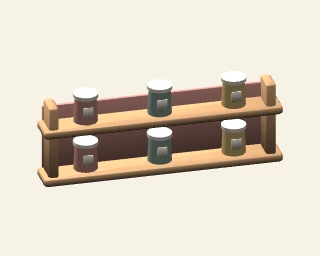
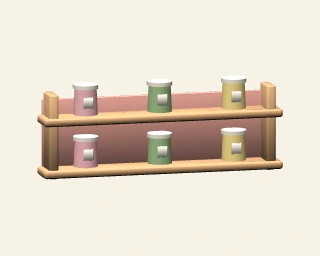
Unify furniture wood, porcelain and tea details (preview.11)

Changed region(s): [[0.0938, 0.2812, 0.9062, 0.75]]

diff --git a/src/shop/edition-art.ts b/src/shop/edition-art.ts
@@ -1,3 +1,4 @@
+import { ITEMS } from '../game/items';
 import { buildEditionExtra, editionExtraIds } from './edition-extras';
 import { buildEditionSpecial, editionSpecialIds } from './edition-specials';
 import { StandardMaterial } from '@babylonjs/core/Materials/standardMaterial';
@@ -11,7 +12,7 @@ import type { Scene } from '@babylonjs/core/scene';
 import type { ShopState, UpgradeId } from '../game/types';
 import { floorCenter, wallCenter } from './grid';
 import { UPGRADE_BY_ID, placeOf, isPlaced } from './upgrades';
-import { editionFabricTexture, editionSignTexture, editionOakTexture } from './textures';
+import { editionFabricTexture, editionSignTexture, editionOakTexture, editionJoineryTexture } from './textures';
 
 const E={cream:'#f6eedf',oak:'#c79b70',dark:'#725340',sage:'#8da496',rose:'#c78d82',brass:'#b69862',leaf:'#69896b',leafDeep:'#46664e',ink:'#414f49'};
 export const editionCoreIds: UpgradeId[]=['counter','sign','paint','shelves','plant','rug','lamp','table'];
@@ -36,13 +37,20 @@ function soft(s:Scene,n:string,p:TransformNode,m:StandardMaterial,w:number,h:num
  const normals:number[]=[];VertexData.ComputeNormals(positions,indices,normals);const v=new VertexData();Object.assign(v,{positions,indices,normals,uvs});v.applyToMesh(mesh);return attach(mesh,p,m,x,y,z);
 }
 function cup(s:Scene,p:TransformNode,body:StandardMaterial,tea:StandardMaterial,x:number,y:number,z:number){
- cylinder(s,'saucer',p,body,.025,.135,x,y,z);cylinder(s,'ceramic-cup',p,body,.15,.075,x,y+.085,z,.095);cylinder(s,'tea',p,tea,.009,.073,x,y+.165,z);
+ cylinder(s,'saucer',p,body,.025,.135,x,y,z);cylinder(s,'ceramic-cup',p,body,.15,.075,x,y+.085,z,.095);cylinder(s,'tea',p,tea,.009,.073,x,y+.165,z);ring(s,'porcelain-lip',p,body,.18,.014,x,y+.165,z);
  const h=ring(s,'cup-handle',p,body,.11,.025,x+.105,y+.1,z);h.rotation.x=Math.PI/2;
 }
 function pot(s:Scene,p:TransformNode,body:StandardMaterial,accent:StandardMaterial,x:number,y:number,z:number){
  orb(s,'teapot-belly',p,body,.16,x,y+.15,z,1.15,.95,1);cylinder(s,'teapot-lid',p,accent,.035,.115,x,y+.29,z);orb(s,'teapot-knob',p,accent,.035,x,y+.33,z);
  const sp=cylinder(s,'teapot-spout',p,body,.23,.035,x+.19,y+.2,z,.055);sp.rotation.z=-.8;
  const h=ring(s,'teapot-handle',p,accent,.24,.035,x-.18,y+.17,z);h.rotation.x=Math.PI/2;
+}
+function teaPacket(scene:Scene,p:TransformNode,paper:StandardMaterial,ink:StandardMaterial,x:number,y:number,z:number){
+ const packet=new TransformNode('folded-tea-packet',scene);packet.parent=p;packet.position.set(x,y,z);packet.rotation.y=-.18;
+ soft(scene,'tea-paper',packet,paper,.23,.035,.17,.025);
+ soft(scene,'packet-label',packet,ink,.12,.006,.09,.012,0,.021,0);
+ for(const xx of [-.09,.09])soft(scene,'packet-seam',packet,paper,.012,.008,.145,.004,xx,.023,0);
+ soft(scene,'packet-fold',packet,paper,.19,.009,.025,.008,0,.025,-.063);
 }
 function steam(s:Scene,p:TransformNode,x:number,y:number,z:number){const m=mat(s,'steam','#fff8e9');m.alpha=.26;m.emissiveColor=Color3.FromHexString('#fff1d6').scale(.18);for(let i=0;i<3;i++){const a=orb(s,'tea-steam',p,m,.045,x,y,z,1,1.4,1);a.isPickable=false;a.receiveShadows=false;a.metadata={steam:{x,y,phase:i/3}};}}
 function tag(root:TransformNode,id:UpgradeId){root.metadata={upgradeId:id};for(const m of root.getChildMeshes())m.metadata={...m.metadata,upgradeId:id};}
@@ -56,13 +64,16 @@ export function buildEditionItem(scene:Scene,id:UpgradeId,shop:ShopState,style:n
  if(editionSpecialIds.includes(id)) return buildEditionSpecial(scene,id,shop,style,{E,mat,attach,orb,cylinder,ring,soft,cup,pot,place,tag});
  if(editionExtraIds.includes(id)) return buildEditionExtra(scene,id,shop,style,{E,mat,attach,orb,cylinder,ring,soft,cup,pot,place,tag});
  const root=new TransformNode(id,scene);const wood=mat(scene,'oak',E.oak),cream=mat(scene,'porcelain',E.cream,.25),dark=mat(scene,'walnut',E.dark),brass=mat(scene,'brass',E.brass,.3),accent=mat(scene,'accent',[E.sage,E.cream,E.rose][style]);
+ cream.specularColor.setAll(.16);cream.specularPower=40;wood.specularColor.setAll(.045);wood.specularPower=12;
+ if(['counter','table','shelves'].includes(id))wood.diffuseTexture=editionJoineryTexture(scene);
  if(id==='counter'){
   const body=style===0?wood:accent;soft(scene,'counter-cabinet',root,body,2.88,1.02,.89,.13,0,.56,0);
   soft(scene,'counter-plinth',root,dark,2.74,.12,.78,.1,0,.09,0);soft(scene,'rounded-countertop',root,style===0?dark:cream,3,.13,1,.17,0,1.12,0);
   for(const x of [-.94,0,.94]){soft(scene,'cabinet-panel',root,cream,.8,.68,.035,.05,x,.57,.454);soft(scene,'panel-inset',root,body,.69,.56,.045,.05,x,.57,.475);orb(scene,'cabinet-handle',root,brass,.027,x+.22,.72,.507);}
   soft(scene,'serving-tray',root,dark,1.05,.035,.54,.15,-.7,1.2,.02);pot(scene,root,accent,cream,-.83,1.22,.02);cup(scene,root,cream,dark,-.36,1.22,.08);steam(scene,root,-.83,1.64,.02);
-  for(let i=0;i<3;i++){const x=.28+i*.28;cylinder(scene,'tea-canister',root,i===1?accent:cream,.26,.105,x,1.33,-.15);cylinder(scene,'canister-lid',root,wood,.035,.115,x,1.48,-.15);soft(scene,'tin-label',root,dark,.1,.09,.01,.003,x,1.34,-.038);}
+  for(let i=0;i<3;i++){const x=.28+i*.28;cylinder(scene,'tea-canister',root,i===1?accent:cream,.26,.105,x,1.33,-.15);cylinder(scene,'canister-lid',root,wood,.035,.115,x,1.48,-.15);soft(scene,'tin-label',root,cream,.12,.11,.014,.012,x,1.34,-.038);}
   soft(scene,'folded-cloth',root,accent,.38,.03,.35,.06,.92,1.205,.22);
+  const teaPaper=mat(scene,'tea-paper',ITEMS.jasmine.fill),teaInk=mat(scene,'tea-ink',ITEMS.jasmine.ink);teaPacket(scene,root,teaPaper,teaInk,.93,1.235,.22);
  }else if(id==='sign'){
   soft(scene,'rounded-sign',root,style===1?brass:wood,1.9,.78,.12,.15);const face=MeshBuilder.CreatePlane('sign-lettering',{width:1.7,height:.61},scene);attach(face,root,mat(scene,'sign-face','#ffffff'),0,0,.066);face.rotation.y=Math.PI;(face.material as StandardMaterial).diffuseTexture=editionSignTexture(scene,style);
   for(const x of [-.64,.64])cylinder(scene,'sign-hook',root,brass,.14,.025,x,.45,0);
@@ -70,7 +81,7 @@ export function buildEditionItem(scene:Scene,id:UpgradeId,shop:ShopState,style:n
   soft(scene,'shelf-back',root,style===2?accent:cream,2.78,.93,.05,.09,0,.08,.04);
   for(const y of [-.3,.32])soft(scene,'shelf-board',root,style===1?cream:wood,2.9,.09,.4,.045,0,y,.22);
   for(const x of [-1.32,1.32])soft(scene,'shelf-side',root,wood,.12,1,.32,.04,x,.14,.2);
-  const colors=[E.sage,E.rose,'#d8ba79'];for(let i=0;i<6;i++){const x=-.9+(i%3)*.9,y=i<3?.37:-.25;const jar=mat(scene,'shelf-glaze'+i,colors[(i+style)%3],.3);cylinder(scene,'tea-jar',root,jar,.31,.145,x,y+.16,.2,.13);cylinder(scene,'tea-jar-lid',root,cream,.045,.15,x,y+.34,.2);soft(scene,'jar-label',root,cream,.12,.13,.015,.005,x,y+.16,.335);}
+  const colors=[ITEMS.matcha.fill,ITEMS.rose.fill,ITEMS.jasmine.fill];for(let i=0;i<6;i++){const x=-.9+(i%3)*.9,y=i<3?.37:-.25;const jar=mat(scene,'shelf-glaze'+i,colors[(i+style)%3],.3);cylinder(scene,'tea-jar',root,jar,.31,.145,x,y+.16,.2,.13);cylinder(scene,'tea-jar-lid',root,cream,.045,.15,x,y+.34,.2);soft(scene,'jar-label',root,cream,.12,.13,.015,.005,x,y+.16,.335);}
  }else if(id==='plant'){
   cylinder(scene,'ceramic-planter',root,accent,.34,.22,0,.19,0,.28);ring(scene,'pot-rim',root,cream,.55,.035,0,.36,0);cylinder(scene,'soil',root,dark,.015,.24,0,.37,0);
   const leaf=mat(scene,'leaf',E.leaf),deep=mat(scene,'leaf-shadow',E.leafDeep);
@@ -93,6 +104,7 @@ export function buildEditionItem(scene:Scene,id:UpgradeId,shop:ShopState,style:n
   cylinder(scene,'table-pedestal',root,dark,.58,.085,0,.34,0);soft(scene,'table-foot',root,dark,.7,.07,.7,.2,0,.055,0);
   for(const x of [-.77,.77]){const chairRoot=new TransformNode('dining-chair',scene);chairRoot.parent=root;chairRoot.position.set(x,0,0);soft(scene,'seat-frame',chairRoot,dark,.39,.07,.43,.11,0,.37,0);soft(scene,'seat-cushion',chairRoot,accent,.36,.08,.39,.12,0,.43,0);for(const z of [-.15,.15])for(const xx of [-.13,.13])cylinder(scene,'chair-leg',chairRoot,dark,.32,.025,xx,.19,z);if(style!==0){soft(scene,'chair-back',chairRoot,body,.08,.39,.43,.04,x<0?-.17:.17,.61,0);}}
   cup(scene,root,cream,dark,-.28,.72,.1);cup(scene,root,cream,dark,.28,.72,.1);
+  const teaPaper=mat(scene,'tea-paper',ITEMS.matcha.fill),teaInk=mat(scene,'tea-ink',ITEMS.matcha.ink);teaPacket(scene,root,teaPaper,teaInk,.02,.735,.22);
   if(editionReadingNook(shop)){
    soft(scene,'open-book-cover',root,accent,.37,.035,.27,.025,0,.73,-.2);soft(scene,'book-pages',root,cream,.33,.025,.23,.015,0,.76,-.2);
    pot(scene,root,accent,cream,.12,.72,-.18);steam(scene,root,.12,1.14,-.18);root.metadata={readingNook:true};

diff --git a/src/shop/textures.ts b/src/shop/textures.ts
@@ -193,6 +193,20 @@ export function editionOakTexture(scene:Scene):DynamicTexture {
   }
  });
 }
+// Neutral grain multiplies the existing oak tint; no plank seams on furniture.
+export function editionJoineryTexture(scene:Scene):DynamicTexture {
+ return canvasTex(scene,'edition-joinery',128,(ctx,s)=>{
+  ctx.fillStyle='#ffffff';ctx.fillRect(0,0,s,s);
+  ctx.strokeStyle='#795a3e';ctx.lineWidth=.8;ctx.globalAlpha=.10;
+  for(let row=0;row<14;row++){
+   const y=row*10-4;ctx.beginPath();ctx.moveTo(0,y);
+   ctx.bezierCurveTo(36,y+Math.sin(row*2)*4,88,y-3,s,y+2);ctx.stroke();
+  }
+  ctx.globalAlpha=.05;ctx.lineWidth=1;
+  for(let row=0;row<5;row++){ctx.beginPath();ctx.ellipse(28+row*21,14+row*24,18,2,.04,0,Math.PI*2);ctx.stroke();}
+  ctx.globalAlpha=1;
+ });
+}
 export function editionFabricTexture(scene:Scene,style:number):DynamicTexture {
  return canvasTex(scene,'edition-fabric-'+style,256,(ctx,s)=>{
   const base=['#d6b58e','#cbb2a5','#b8c4b0'][style];ctx.fillStyle=base;ctx.fillRect(0,0,s,s);

diff --git a/src/game/version.ts b/src/game/version.ts
@@ -1,1 +1,1 @@
-export const APP_VERSION = "0.3.0-preview.10";
+export const APP_VERSION = "0.3.0-preview.11";

diff --git a/docs/RELEASES.md b/docs/RELEASES.md
@@ -1,5 +1,9 @@
 # Decopu releases
 
+## 0.3.0-preview.11 — wood, porcelain and tea details
+
+Local work: subtle joinery grain on the counter, table and shelves; softer porcelain highlights and cup rims; folded tea packets linking room props to puzzle sachets. Catalogue thumbnails follow the runtime models. UI, keeper pose, ownership, placement and saves are preserved. Required verification and preview build pass. Browser checks cover day/night, four viewport sizes, mixed-style and zoomed captures, preview/cancel/purchase/reload, counter rotations, reduced motion and three scene cycles with textured furniture present. Each disposed scene releases all meshes/materials/textures/lights; rebuilt scenes retain 267 meshes, 74 materials, 8 textures, 51 transforms and 5 lights. Zero runtime exceptions. Physical-phone performance and aesthetic review remain pending. [Before](screenshots/materials/before.webp) · [After](screenshots/materials/after.webp) · [Detail](screenshots/materials/detail.webp) · [Mixed styles](screenshots/materials/mixed.webp). Evidence: `work/materials-check.log`, `work/materials-verify.log`, `work/materials-build.log`; runtime thumbnails regenerated for counter/table/shelves and the trolley/cabinet tea sets. Preview publication pending; main remains 0.2.1.
+
 ## 0.3.0-preview.10 — editor focus and dialog navigation
 
 Local work: maintain usable focus through decoration selection, cancellation, buying, Browse and Store/Place. The shop-completion dialog receives focus, contains keyboard navigation, isolates background controls and returns focus on dismissal. Rules, touch layout and saves remain unchanged. Required verification and final preview build pass. Six compiled-browser check groups cover card/style/cancel/buy/Store/Place/Browse focus, distinct selected-style focus rings, four responsive sizes with day/night, modal Tab/Shift+Tab containment, Escape, both completion actions and Showcase return. The existing six editor flow groups and seven real touch movement cases pass, including immediate lamp/counter dragging, purchases, save preservation and the first-decoration guide. Zero runtime exceptions. Physical iPhone VoiceOver review remains pending. [Dialog](screenshots/editor-access/dialog.webp) · [Focus](screenshots/editor-access/focus.webp) · [Night focus](screenshots/editor-access/night-focus.webp). Baseline focus loss was reproduced against preview.9. Evidence: `work/editor-access-check.log`, `work/editor-access-touch.log`, `work/editor-access-movement.log`, `work/editor-access-build.log`, `work/editor-access-verify.log`. Hosted successfully in [Pages run 42491257279](https://github.com/ElBafo/tea-shop/actions/runs/42491257279) from source `35dc336901bb812834f44f7b7fbf5bf598d5d8b3`, [PR #27](https://github.com/ElBafo/tea-shop/pull/27). Review the regular [preview](https://elbafo.github.io/tea-shop/preview/) and check v0.3.0-preview.10. Main remains 0.2.1.

diff --git a/README.md b/README.md
@@ -6,6 +6,8 @@ A cozy sorting puzzle that earns stars for a small isometric tea shop. Fill jars
 
 **Released: [Decopu 0.2.1](https://elbafo.github.io/tea-shop/).** [PR #17](https://github.com/ElBafo/tea-shop/pull/17) merged as `2df365fd0921835cd2d647c3277d026b682f821b`; [Pages run 42128359597](https://github.com/ElBafo/tea-shop/actions/runs/42128359597) passed. Drag controls, refined puzzle artwork and the visual first-puzzle guide are live. Existing production progress is preserved; there is no new reset or storage namespace.
 
+**Materials preview: 0.3.0-preview.11.** Subtle furniture wood grain, softer porcelain, clear cup rims, and folded tea packets using puzzle colours. Updated counter/table/shelf thumbnails. Required checks and scene-resource regression pass. Preview publication pending; main remains 0.2.1.
+
 **Editor accessibility preview: 0.3.0-preview.10.** Focus follows decoration selection, purchase and arrangement; the completion dialog isolates background controls and supports keyboard dismissal. Required checks, compiled editor flows and real touch-drag checks pass. Hosted successfully in [Pages run 42491257279](https://github.com/ElBafo/tea-shop/actions/runs/42491257279) from source `35dc336901bb812834f44f7b7fbf5bf598d5d8b3`, [PR #27](https://github.com/ElBafo/tea-shop/pull/27). Review the regular [preview](https://elbafo.github.io/tea-shop/preview/) and check v0.3.0-preview.10. Main remains 0.2.1.
 
 **Keeper pose correction: 0.3.0-preview.9.** Smaller cup held below and beside the face, joined bent supporting arm, and relaxed free arm. Required checks and browser regressions pass. Hosted successfully in [Pages run 42488875308](https://github.com/ElBafo/tea-shop/actions/runs/42488875308) from source `97b65a5a706eae26b4fd03b484e865ebd119299b`, [PR #26](https://github.com/ElBafo/tea-shop/pull/26). Open the regular [preview](https://elbafo.github.io/tea-shop/preview/) and check v0.3.0-preview.9. Main remains 0.2.1.

diff --git a/docs/ROADMAP.md b/docs/ROADMAP.md
@@ -2,7 +2,11 @@
 
 Record every agreed product decision here in the same work session. Distinguish current behavior, agreed plans and open decisions. Product direction lives in [PRODUCT.md](PRODUCT.md); detailed art criteria live in [POLISH_PLAN.md](POLISH_PLAN.md).
 
-## Current priority — 0.3.0-preview.10
+## Current priority — 0.3.0-preview.11
+
+Owner authorized continuation after the reviewed editor reliability pass. Take the next bounded material-cohesion slice: subtle joinery grain on counter/table/shelves, softer porcelain highlights and readable cup rims, and small folded tea packets echoing the puzzle sachets. Review mixed styles together, day/night and zoomed detail. Retain the reviewed UI, keeper pose, paid ownership, placement, puzzle rules and saves. Regenerate affected catalogue thumbnails from runtime models. Required verification and preview build pass. Browser checks cover day/night, four viewport sizes, mixed-style and zoomed captures, preview/cancel/purchase/reload, counter rotations, reduced motion and three scene cycles with textured furniture present. Each disposed scene releases all meshes/materials/textures/lights; rebuilt scenes retain 267 meshes, 74 materials, 8 textures, 51 transforms and 5 lights. Zero runtime exceptions. Physical-phone performance and aesthetic review remain pending. Evidence and screenshots are linked in [RELEASES.md](RELEASES.md). Preview publication pending; main remains 0.2.1.
+
+### Previous editor reliability preview — 0.3.0-preview.10
 
 The owner reviewed preview.10 positively (“Looks good”). The editor focus/dialog slice is reviewed; this feedback does not request a main merge or start another implementation slice. The prior home/editor layouts are retained. Broader room/puzzle material cohesion, physical-phone performance and the uncoached first-session review remain pending.
 

diff --git a/docs/PRODUCT.md b/docs/PRODUCT.md
@@ -2,6 +2,10 @@
 
 **Released: [Decopu 0.2.1](https://elbafo.github.io/tea-shop/).** [PR #17](https://github.com/ElBafo/tea-shop/pull/17) merged as `2df365fd0921835cd2d647c3277d026b682f821b`; [Pages run 42128359597](https://github.com/ElBafo/tea-shop/actions/runs/42128359597) passed. Drag controls, refined puzzle artwork and the visual first-puzzle guide are live. Existing production progress is preserved; there is no new reset or storage namespace.
 
+## Room/puzzle material cohesion — 0.3.0-preview.11
+
+Start with the paid counter, table and shelves: subtle warm joinery grain, soft porcelain highlights and clearer cup rims. Small folded tea packets echo the puzzle sachets; shelf glazes use the same rose, matcha and jasmine colours. Retain wood, cream and painted options so mixed styles remain compatible. These are included details of existing paid decorations. The reviewed UI, keeper pose, prices, progression and saved layouts remain authoritative. This bounded slice does not claim a complete catalogue rework or measured physical-phone performance.
+
 ## Editor focus — 0.3.0-preview.10
 
 Keyboard users should stay oriented as editor controls change: card → selected style, Buy → owned style, Store ↔ Place, and Cancel/Browse → the relevant card. A shop-completion dialog should isolate the room controls, keep Tab navigation inside, offer Escape and return focus to a usable editor action. This pass preserves the compact touch layout and gameplay. Physical iPhone VoiceOver review remains pending; browser keyboard checks are separate evidence.

diff --git a/docs/ARCHITECTURE.md b/docs/ARCHITECTURE.md
@@ -2,6 +2,10 @@
 
 **Released: [Decopu 0.2.1](https://elbafo.github.io/tea-shop/).** [PR #17](https://github.com/ElBafo/tea-shop/pull/17) merged as `2df365fd0921835cd2d647c3277d026b682f821b`; [Pages run 42128359597](https://github.com/ElBafo/tea-shop/actions/runs/42128359597) passed. Drag controls, refined puzzle artwork and the visual first-puzzle guide are live. Existing production progress is preserved; there is no new reset or storage namespace.
 
+## Furniture materials — 0.3.0-preview.11
+
+`editionJoineryTexture` creates a deterministic neutral 128px grain map per counter/table/shelf wood material, multiplied by the existing tint. `ownedVisual` disposes each material and its texture with the item's root. No shared mutable texture cache is introduced. The existing cup helper adds a porcelain lip; folded packet geometry stays under its paid item's root and inherits upgrade picking metadata. Packet and shelf colours read `game/items.ts`. No lights, render loops, placement rules or save keys change. Catalogue thumbnails for counter/table/shelves and the trolley/cabinet tea sets are regenerated from runtime geometry.
+
 ## Editor focus and modal lifecycle — 0.3.0-preview.10
 
 `shop/screen.ts` restores focus to visible successors after controls are replaced. Card selection and purchase also restore at the end of their action, because preview/scene callbacks can render intermediate states. `paintChrome` restores matching style/action controls and Store/Place counterparts. Browse remembers the prior item and returns to its card when available.
